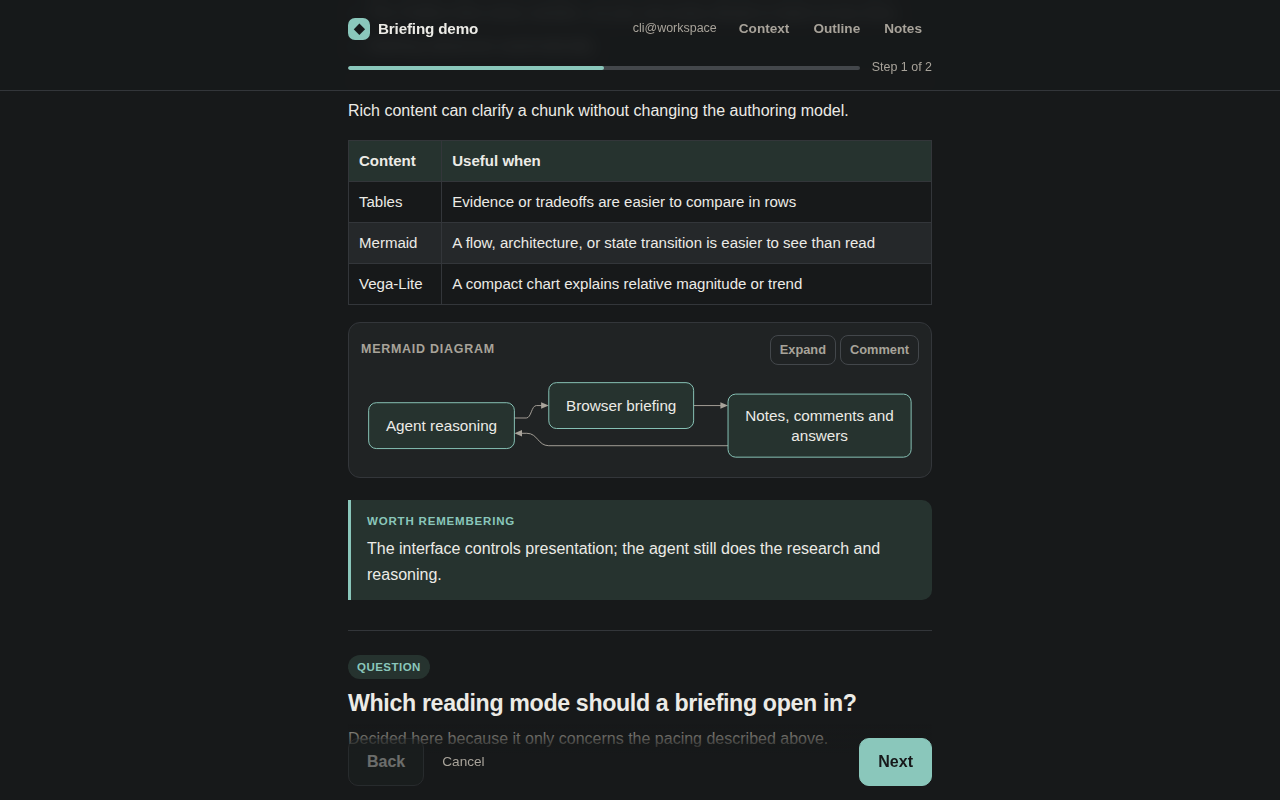
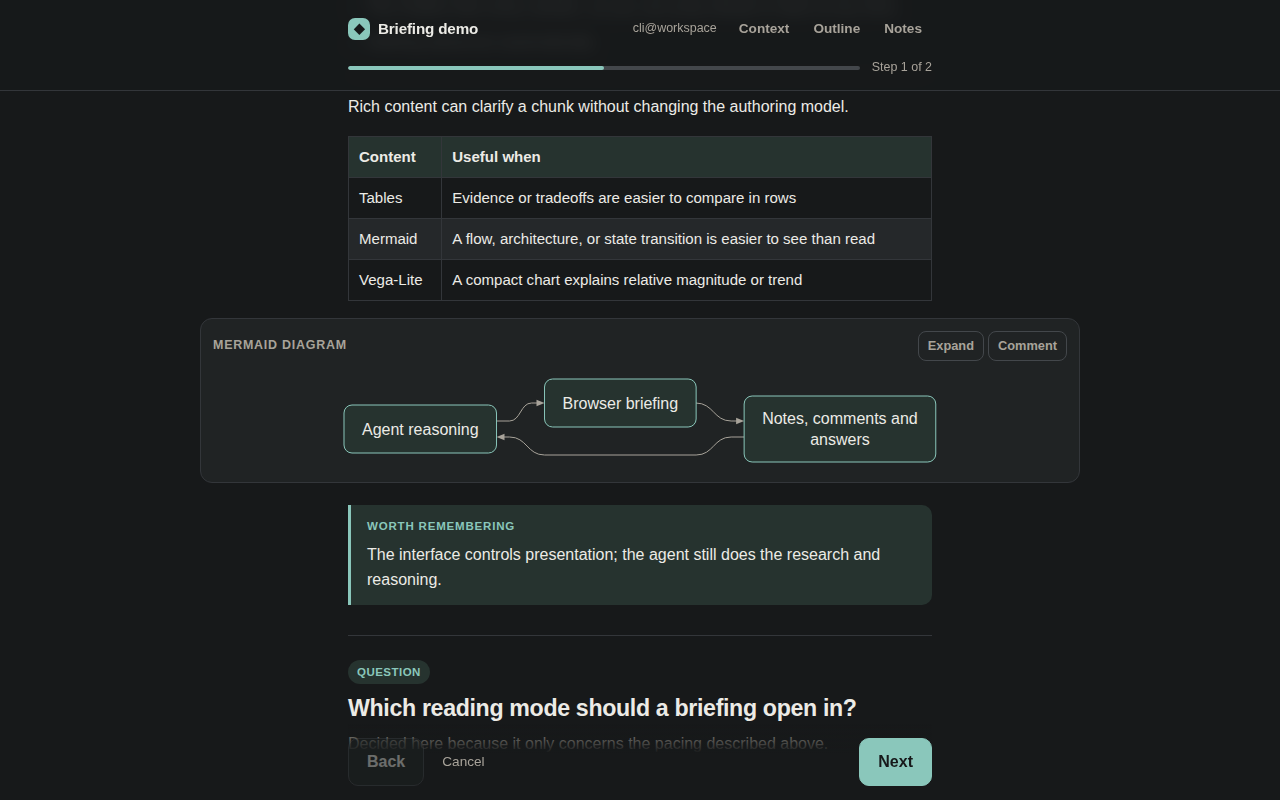
Let figures and tables grow past the reading column on wide screens
The reading column stays at a readable line length, but diagrams, charts and wide tables
were squeezed into it. From 900 px up they now break out to as much as 880 px, centred on
the column; with the sidebar docked in the left margin they grow into the right margin
instead, so it never covers them. A table only takes the extra width its content needs, and
phones are unchanged. The README screenshots are recaptured to match.

diff --git a/assets/page.html b/assets/page.html
@@ -20,6 +20,8 @@
       --focus: color-mix(in srgb, var(--accent) 34%, transparent);
       --radius: 14px;
       --content: 640px;
+      /* Diagrams, charts and tables may grow past the reading column up to this width. */
+      --wide: 880px;
       font-family: ui-sans-serif, -apple-system, BlinkMacSystemFont, "Segoe UI", Inter, sans-serif;
     }
     @media (prefers-color-scheme: dark) {
@@ -307,6 +309,24 @@
     .notes-actions .btn { padding: 8px 14px; }
     .notes-hint { margin-right: auto; color: var(--muted); font-size: .78rem; }
     @media (pointer: coarse) { .notes-hint { display: none; } }
+    /* On wide screens, figures and tables break out of the reading column (which stays at a
+       readable line length), centred on it; with the sidebar docked in the left margin they grow
+       into the right margin only. 100cqw is the column's width. */
+    @media (min-width: 900px) {
+      main .reading { container-type: inline-size; }
+      main .reading .rich-block, main .reading .table-wrap {
+        --w: min(var(--wide), calc(100vw - 64px));
+        width: var(--w);
+        margin-left: calc((100cqw - var(--w)) / 2);
+      }
+      /* A table only takes the extra width its content needs. */
+      main .reading .table-wrap table { width: auto; min-width: 100cqw; margin: 0 auto; }
+      body.sidebar-docked main .reading .rich-block, body.sidebar-docked main .reading .table-wrap {
+        --w: min(var(--wide), calc(100cqw + (100vw - 100cqw) / 2 - 32px));
+        margin-left: 0;
+      }
+      body.sidebar-docked main .reading .table-wrap table { margin-left: 0; }
+    }
     @media (min-width: 1200px) {
       .notes { inset: 88px auto 16px 16px; width: min(320px, calc((100vw - var(--content)) / 2 - 44px)); border: 1px solid var(--line-strong); border-radius: var(--radius); box-shadow: 0 10px 30px rgba(0,0,0,.12); }
     }
@@ -1996,6 +2016,7 @@
       const panel = document.getElementById("notes-panel");
       const modal = Boolean(panel) && !notesDocked.matches;
       document.body.classList.toggle("sidebar-modal", modal);
+      document.body.classList.toggle("sidebar-docked", Boolean(panel) && notesDocked.matches);
       if (modal) {
         // Full screen, with the content padded into the visible viewport so a touch keyboard
         // never covers the composer and its buttons. The panel itself still covers everything:
